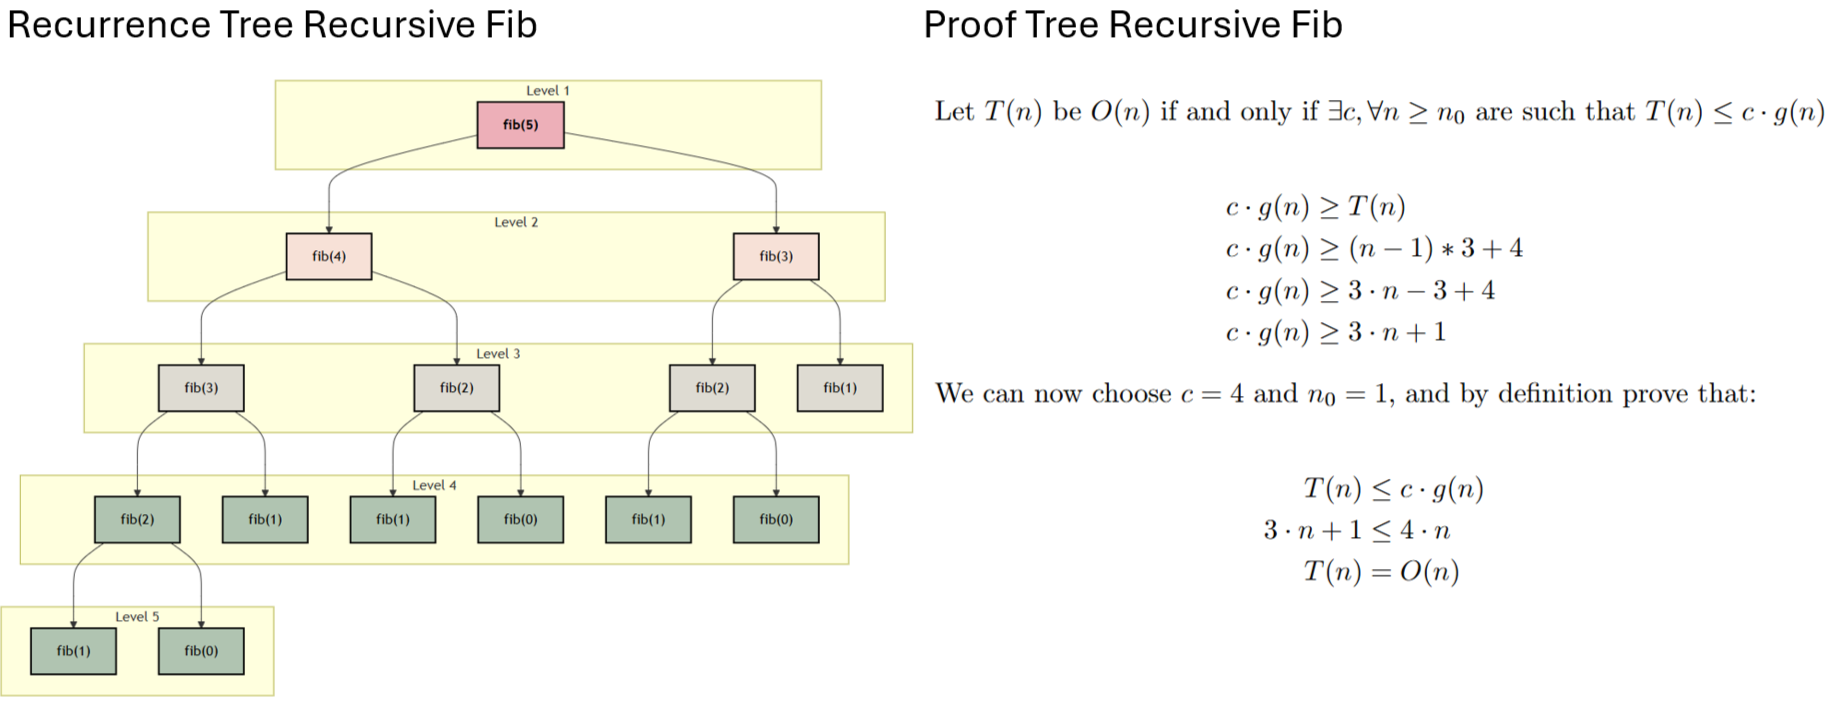
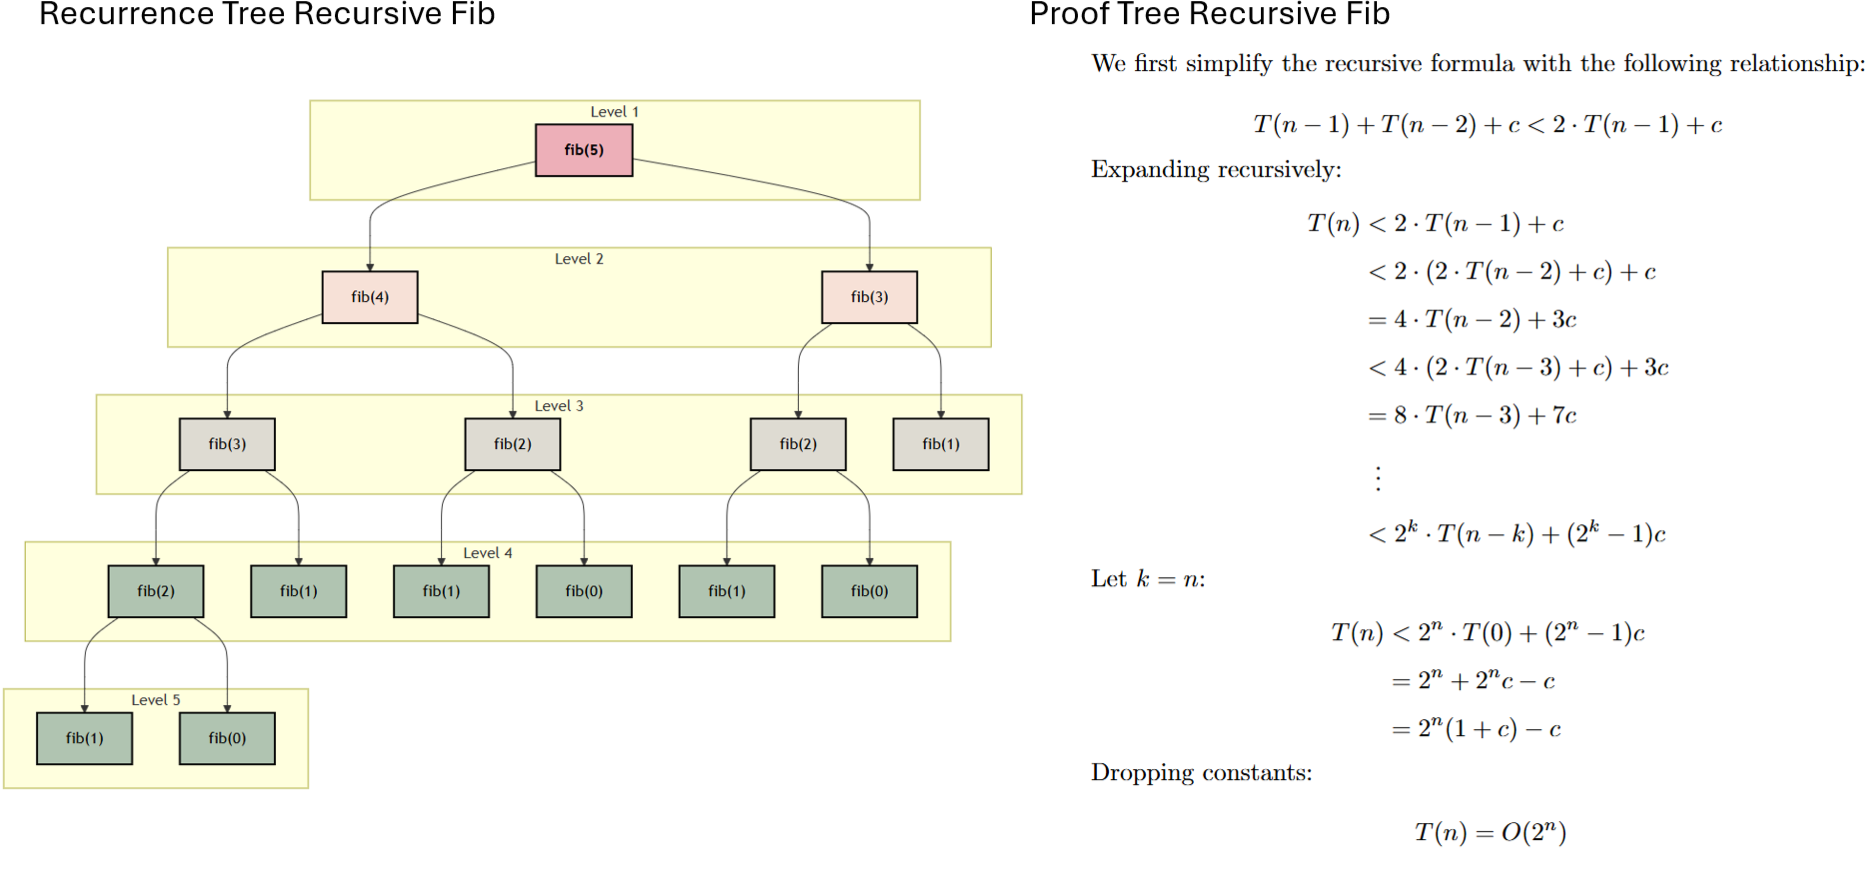
recursive images

diff --git a/REPORT.MD b/REPORT.MD
@@ -19,7 +19,7 @@ The purpose of this report is to gain an understanding of how a programming lang
 ### Iterative:
 
 <p align="center">
-  <img src="images/iterative_fib.png" alt="Python vs C" width="100%">
+  <img src="images/iterative_fib.png" alt="Python vs C" width="80%">
 </p>
 
 The pseudocode above outlines the iterative solution for the Fibonacci sequence. To find a T(n) for our code, we can analyze each line and count the number of operations:
@@ -34,24 +34,33 @@ $T(n)= c \cdot (n-1) + 4$
 </p>
 <br>
 
-Given this information, we can now formally prove that the iterative solution that $T(n) = O(n)$ which that result is shown above. Overall this is a simple yet very efficient implementation of the Fibonacci sequence. The space complexity is constant and our time complexity is  $O(n)$.
+Given this information, we can now formally show that the iterative solution is $T(n) = O(n)$ the result of which are shown above. Overall this algorithm is a simple yet very efficient implementation of the Fibonacci sequence. The space complexity is constant and our time complexity is  $O(n)$.
+
 https://syedtousifahmed.medium.com/fibonacci-iterative-vs-recursive-5182d7783055
 
 ### Recursive Solution:
 <p align="center">
-  <img src="images/recur.png" alt="Python vs C" width="100%">
+  <img src="images/recur.png" alt="Python vs C" width="80%">
 </p>
 
+__Pseudocode Code Recursive:__
+
+```text
+1.  FUNCTION recursive_fib(n):
+2.      IF n <= 1:
+3.          RETURN n
+4.      result = recursive_fib(n - 1) + recursive_fib(n - 2)
+5.      RETURN result
+```
 
 &nbsp;&nbsp;&nbsp;&nbsp; 
-Above we outline the pseudocode and recurrence tree for the recursive solution for the Fibonacci sequence. As we can see from the pseudocode code, the recursive solution is simple to implement. In line 2 and 3, we check for our base cases and line 4 we perform our recursive call. Although, the recursive solution at the surface may seem simple, exploring our recurrence tree reveals a different reality.
+As we can see from the pseudocode code above, the recursive solution is  a simple algorithm implement. In line 2 and 3, we check for our base cases and line 4 we perform our recursive call. Although, the recursive solution at the surface is simple, a deeper dive into the recurrence tree, as shown above, reveals redundant and exponential growth.
 
 &nbsp;&nbsp;&nbsp;&nbsp; 
-The recurrence tree shows how our stack calls break down with the fibnoci recursive solution. A literature review shows that the tight upper bound of the recursive solution is $O(\phi^n)$ (cite), but are going explore the more general approach of showing $O(2^n)$. Looking at the pseudocode, we check our base case then perform two additional recursive calls. This equates to $T(n) = T(n-1) + T(n-2) + 1$. With tshis information lets go on the show that $T(n)$ is $O(2^n)$. 
-
+The recurrence tree shows how our recursive calls quickly add to our stack memory. A literature review shows that the tight upper bound of the recursive solution is $O(\phi^n)$ ([cite](https://evoniuk.github.io/posts/fibonacci.html)), but we are going explore the more general approach of showing $O(2^n)$. Looking at the pseudocode, we check our base case then perform two additional recursive calls. This equates to $T(n) = T(n-1) + T(n-2) + 1$, an exact replication fo the fibonacci formula. Given this information, we use show how $T(n)$ is $O(2^n)$ in the proof above.
 
 &nbsp;&nbsp;&nbsp;&nbsp;
-As we can see from the proof above our runtime for this solution is $O(2^n)$. Ituitivley this makes sense since our recursive calls allways grow by a factor two whihc is outlined in the recurence tree. The recurrence tree also shows us our space complexity. The As we can see in the reucrrence tree out deepest branch is $n$ levels deep. Since we only one branch within our tree can only be on the stack at one given time, our total space complexity is $O(n)$.
+As shown in the proof,  our runtime for this solution is $O(2^n)$. Intuitively this runtime makes sense, every recursive call results in two additional recursive calls until our base case is satisfied and this is also shown in our recurrence tree example. The recurrence tree also shows us our space complexity.  As we can see in the recurrence tree our deepest branch is $n$ levels deep. Since only one branch within our tree can only be on the stack at one given time, our total space complexity is $O(n)$.
 
 ### Dynamic Solution
 
@@ -126,8 +135,6 @@ graph TD
     end
 ```
 
-
-
 __Dynamic Proof:__
 >Let $T(n)$ be $O(n)$ if and only if $\exists c, \forall n \ge n_0$ such that $T(n)\le c \cdot g(n)$. 
 > 
@@ -151,8 +158,7 @@ As previsouly mentioned there is a trade off between $S(n)$ and $T(n)$ when usin
 ## Empirical Analysis:
 
 <div style="text-align: center;">
-  <img src="mid_term/analysis/graphs/c_fib_graphs.png" alt="Python vs C" width="60%"/>
-  <figcaption>Figure 99: Experimental Results </figcaption>
+  <img src="mid_term/analysis/graphs/c_fib_graphs.png" alt="Python vs C" width="80%"/>
 </div>
 
 

diff --git a/images/og code/mermaid and text boxes.md b/images/og code/mermaid and text boxes.md
@@ -142,3 +142,60 @@ __Pseudocode Fibonacci Recursive:__
 4.      result = recursive_fib(n - 1) + recursive_fib(n - 2)
 5.      RETURN result
 ```
+
+
+__Recursion Tree Fibonacci Dynamic:__
+```mermaid
+graph TD
+    classDef level0 fill:#edafb8,stroke:#000000,color:#000000,stroke-width:2px,font-weight:bold;
+    classDef level1 fill:#f7e1d7,stroke:#000000,stroke-width:2px,color:#000000;
+    classDef level2 fill:#dedbd2,stroke:#000000,stroke-width:2px,color:#000000;
+    classDef level3 fill:#b0c4b1,stroke:#000000,stroke-width:2px,color:#000000;
+    classDef level4 fill:#b0c4b1,stroke:#000000,stroke-width:2px,color:#000000;
+    
+    subgraph "Level 1"
+        F5["fib(5)"]:::level0
+    end
+
+    subgraph "Level 2"
+        F4["fib(4)"]:::level1
+        F3["fib(3)"]:::level1
+        F5 --> F4
+        F5 --> F3
+    end
+
+    subgraph "Level 3"
+        F3b["fib(3)"]:::level2
+        F2a["fib(2)"]:::level2
+        F4 --> F3b
+        F4 --> F2a
+        F2b["fib(2)❌"]:::level2
+        F1c["fib(1)❌"]:::level2
+        F3 --> F2b
+        F3 --> F1c
+    end
+
+    subgraph "Level 4"
+        F2b1["fib(2)"]:::level3
+        F1b["fib(1)"]:::level3
+        F3b --> F2b1
+        F3b --> F1b
+
+        F1a["fib(1)❌"]:::level3
+        F0a["fib(0)❌"]:::level3
+        F2a --> F1a
+        F2a --> F0a
+
+        F1b2["fib(1)❌"]:::level3
+        F0b["fib(0)❌"]:::level3
+        F2b --> F1b2
+        F2b --> F0b
+    end
+
+    subgraph "Level 5"
+        F1x["fib(1)"]:::level4
+        F0x["fib(0)"]:::level4
+        F2b1 --> F1x
+        F2b1 --> F0x
+    end
+```
